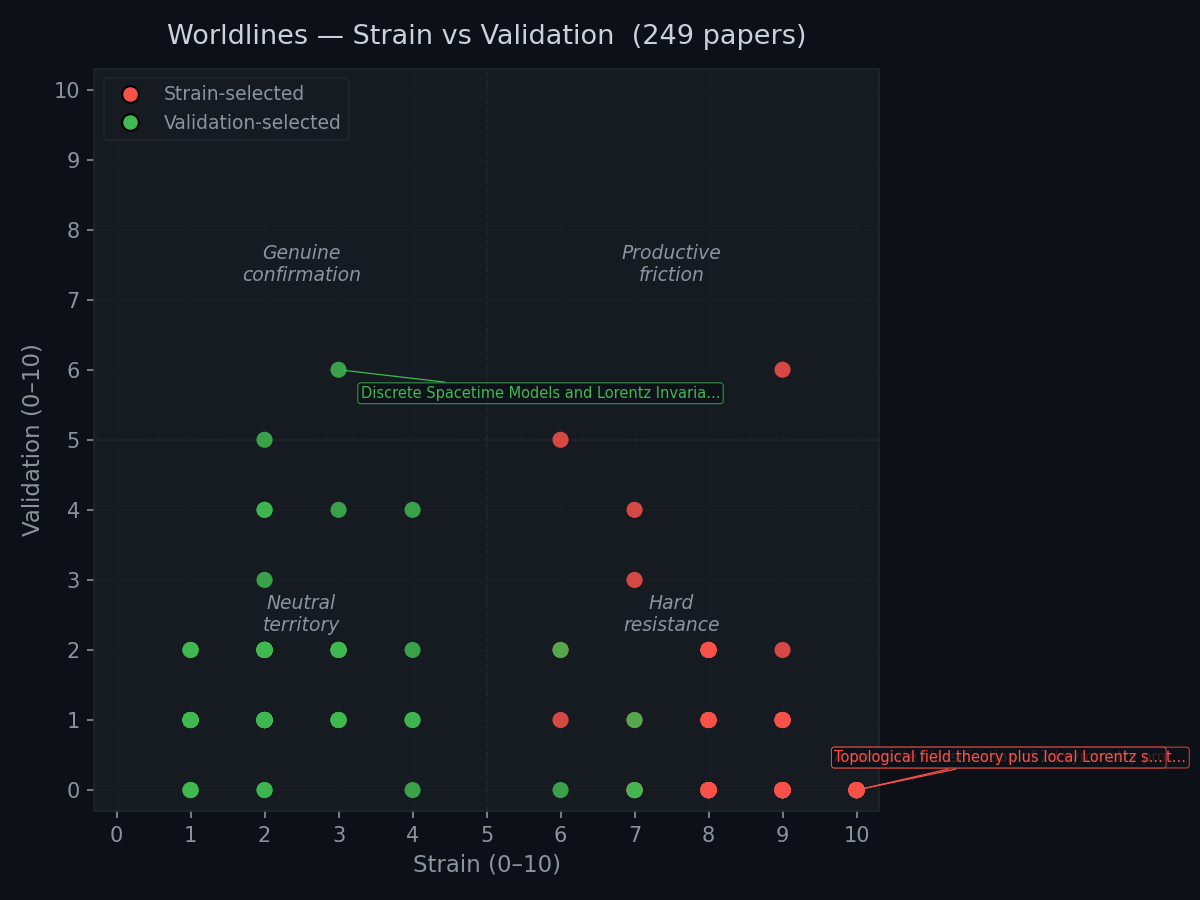
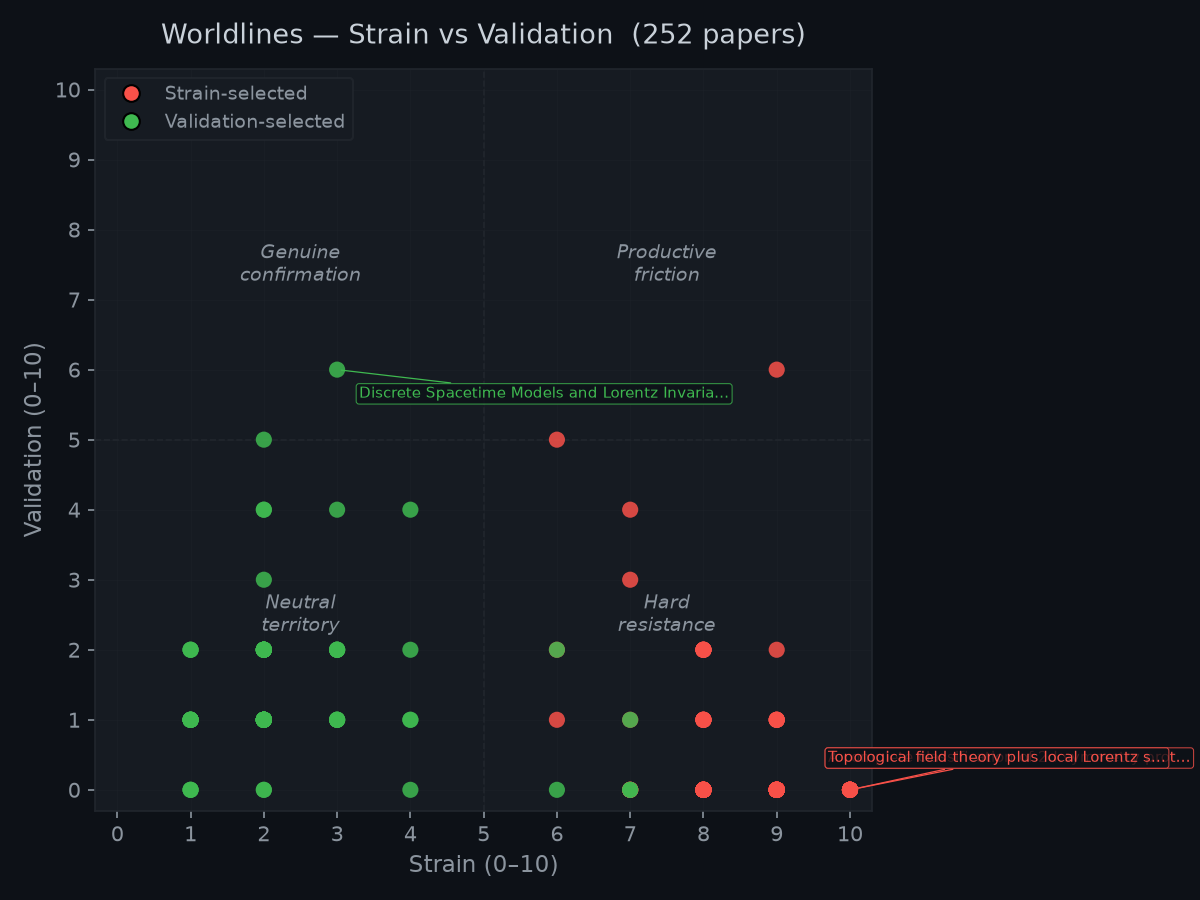
cycle: 2026-06-12T07:43:10Z

diff --git a/cycles/2026-06-12.md b/cycles/2026-06-12.md
@@ -1,0 +1,74 @@
+# Cycle: 2026-06-12
+
+**Papers fetched:** 17
+**Papers selected:** 3
+**Selected papers:**
+- [STRAIN] One-loop five-point gluing analytically (`2606.13665v1`)
+- [STRAIN] Semi-Device-Independent Certification for Nonlocality without Entanglement (`2606.13667v1`)
+- [VALIDATION] Cosmological Dynamics of the Thermal Scalar Near the Hagedorn Temperature (`2606.13611v1`)
+
+**Selection rationale:** Paper 1 (one-loop five-point gluing in N=4 SYM via integrability) is maximally resistant to Worldlines interpretation — it is a purely technical computation in perturbative QFT with no obvious connection to discrete ticks, gradients, or attractors, and would stress-test whether "conservation of computation" says anything meaningful about analytic S-matrix methods. Paper 9 (nonlocality without entanglement) strains the framework because it demonstrates nonlocal effects in separable states, challenging the framework's resolution primitive which ties definiteness to entanglement and collapse — NLWE suggests nonlocality can exist without the entanglement structures the framework relies on. Paper 3 (thermal scalar near Hagedorn temperature) validates the framework: the Hagedorn transition as an attractor-landscape restructuring (phase transition where winding modes become massless), the static configurations as attractor basins in the dilaton-thermal scalar field space, and the cosmological implications of computational substrate near a fundamental temperature limit all align naturally with the framework's primitives in ways that highlight dynamics other approaches treat as merely technical.
+
+
+**Scores:**
+
+| Paper | Strain | Validation | Selection |
+|-------|--------|------------|----------|
+| One-loop five-point gluing analytically | 9/10 | 0/10 | strain |
+| Semi-Device-Independent Certification for Nonlocal... | 9/10 | 0/10 | strain |
+| Cosmological Dynamics of the Thermal Scalar Near t... | 3/10 | 1/10 | validation |
+
+---
+
+### PAPERS PROCESSED
+
+**Paper 1: "One-loop five-point gluing analytically"**
+ArXiv ID: 2606.13665v1 | Selection type: Strain
+
+This paper presents the first complete analytic evaluation of the one-loop five-point function of stress tensor multiplets in $\mathcal{N}=4$ SYM, using integrability-based "gluing" methods. The finite-size corrections are computed by resumming series of residues into Euler integrals, which are then evaluated either directly or via intersection theory for generalized hypergeometric functions. Through the Worldlines lens, several strains emerge. First, the computation is a concrete instance of T055/T170: the physical observable (the five-point correlator) is generated by integrability machinery — the hexagonalization/gluing framework — where the conservation structure (infinite conserved charges of the integrable spin chain) is the computational engine, and the framework's Conservation primitive is the terminal output of this algebraic generation chain, not its source. Second, the use of intersection theory for generalized hypergeometric functions is a new mathematical tool that determines physical content: the intersection numbers of twisted cohomology classes on moduli spaces of punctured spheres are what select the correct analytic continuations and produce the final integrated expressions. This is a cohomological operation mediating between the algebraic (residue series) and analytic (integrated correlator) descriptions — a precise instance of T027 (cohomological mediation) applied to the evaluation of a specific observable. The framework has no primitive for intersection theory, twisted cohomology, or the moduli-space geometry that governs the integration. Third, the result confirms a previously known field-theory answer obtained by entirely different methods (Feynman diagram evaluation), meaning the same physical content is accessed through two categorically different computational architectures (integrability/gluing vs. perturbative Feynman diagrams) — a further instance of T010 (duality). The framework's "reality is literally computation" must choose which computation is "real," and the paper provides no basis for this choice since both produce the identical answer through different mathematical categories. Fourth, the $\mathcal{N}=4$ SYM setting means this observable lives in a theory whose conformal invariance is exact (T154), whose perturbative/non-perturbative structure is governed by modular invariance (T073), and whose organizational structure is algebraic (T059) — the framework's dynamical primitives contribute nothing to any of these features.
+
+**Paper 2: "Semi-Device-Independent Certification for Nonlocality without Entanglement"**
+ArXiv ID: 2606.13667v1 | Selection type: Strain
+
+This paper demonstrates that global quantum measurements on ensembles of *separable* (unentangled) states can outperform separable measurements in maximum-confidence discrimination, establishing "nonlocality without entanglement" (NLWE) at the level of confidence in detection events — a fine-grained figure of merit. The key finding is that quantum nonlocality is not exclusively a property of entangled states: it can arise from the *measurement* structure applied to separable states. Through the Worldlines lens, this strains the framework in a fundamental way. The framework's Resolution primitive describes "unresolved states becoming definite" and implicitly treats the quantum/classical distinction as residing in the *state* (superposition/entanglement = unresolved; definite outcome = resolved). Paper 2 demonstrates that the nonclassical advantage — the excess of global measurement over separable measurement — resides not in the state's entanglement but in the *joint structure of the measurement* (the global POVM vs. LOCC). The states are separable; the nonlocality is in the resolution process itself, not in the pre-resolution state. The framework has no account of measurement-structure-dependent nonlocality for separable states. The maximum-confidence framework — which conditions on detected outcomes and includes minimum-error and unambiguous discrimination as special cases — reveals a *spectrum* of resolution strategies with different operational meanings (confidence vs. success probability vs. unambiguous identification), and the separable/global gap can appear at the confidence level while being absent at the success-probability level or vice versa. The framework's binary Resolution primitive (unresolved → definite) cannot represent this spectrum of resolution strategies or the operational distinctions between them. Furthermore, the semi-device-independent certification protocol — which uses observed confidence values to certify that a global (non-separable) measurement was performed — treats the *type of measurement* as the quantity being certified, not the state. The framework has no primitive for certifying measurement type, and this paper shows it is physically meaningful and experimentally accessible. The connection to T119 (spurious correlations in resolution) is significant: Paper 2 demonstrates that even for *separable* states (which have no genuine quantum correlations in the state), the measurement structure alone can produce nonclassical advantages — meaning the nonclassicality is entirely in the resolution process, not in the pre-resolution topology (T012).
+
+**Paper 3: "Cosmological Dynamics of the Thermal Scalar Near the Hagedorn Temperature"**
+ArXiv ID: 2606.13611v1 | Selection type: Validation
+
+This paper studies the cosmological dynamics of the thermal scalar (a winding string mode becoming massless at the Hagedorn transition) coupled to gravi-dilaton effective action. The key findings include: static configurations below the Hagedorn temperature that are boundary states rather than attractors; winding mode backreaction that opposes and can reverse expansion; tachyonic behavior above the Hagedorn temperature generating negative effective energy density while preserving the null energy condition; and the breakdown of the quadratic effective theory at the Hagedorn temperature itself. Through the Worldlines lens, this paper provides post-hoc consistency with several framework claims at a qualitative level but zero differential predictive content. The framework's Attractor primitive correctly identifies that the static configurations are "boundary states rather than attractors" — they sit at saddle points in the phase-space landscape, consistent with the framework's description of saddle-point dynamics. The winding mode backreaction opposing expansion is narratable as a gradient force (Field primitive) in the effective potential, and the branch-change dynamics are consistent with the Attractor primitive's description of transitions between basins. The Hagedorn temperature itself, where the quadratic theory breaks down and "higher-order interactions become essential," is consistent with the framework's description of attractor landscape restructuring at phase transitions. However, the framework contributed no prediction of any of these features: not the saddle-point nature of the static solutions, not the branch-change mechanism, not the failure of graceful exit, and not the necessity of higher-order interactions. The Euclidean origin of the thermal scalar — explicitly flagged by the authors as requiring their Lorentzian treatment to be viewed as an "effective dynamical model" — connects to T053 (Euclidean nucleation) and reinforces that the framework's Tick primitive is undefined in the regime where the thermal scalar originates. The negative effective energy density with preserved null energy condition is a specific instance of anti-gradient dynamics (T061) that does not produce pathology. This is the weakest category of validation: framework vocabulary can be applied after the fact, but the framework's primitives could not have predicted, constrained, or distinguished any of these results from their non-occurrence.
+
+### FRAMEWORK STRAINS
+
+The most significant strain this cycle comes from Paper 2's demonstration of nonlocality without entanglement at the confidence level. The framework's implicit ontological architecture assigns nonclassicality to the *state* (superposition, entanglement = unresolved computation) and treats measurement/resolution as the process by which unresolved states become definite. Paper 2 inverts this: the states are classical (separable, no entanglement), and the nonclassicality resides entirely in the *measurement structure* — whether the resolution process uses a global POVM or is restricted to LOCC. The framework has no mechanism for locating nonclassicality in the resolution process itself rather than in the pre-resolution state. The Resolution primitive's architecture is: "unresolved state → resolution event → definite outcome." The nonclassical content is supposed to be in the first term (the unresolved state's superposition/entanglement). NLWE demonstrates that the nonclassical content can be entirely in the second term (the resolution event's global vs. local structure), with the first term being fully classical. This is not merely a gap (the framework is silent on something) but a structural misattribution: the framework's ontological architecture places the quantum advantage in the wrong location. The framework would need to either acknowledge that the Resolution primitive itself has internal structure (global vs. local, with different operational capabilities) that is a source of nonclassicality independent of the state, or accept that its state-centric ontology of nonclassicality is incomplete. This is compounded by the maximum-confidence framework's revelation that "resolution" is not a single operation but a family of strategies (minimum-error, unambiguous, maximum-confidence) with different operational meanings, and the quantum advantage can appear at one level and not another. The framework's binary Resolution primitive collapses all of this into a single concept.
+
+Paper 1's strain is more of the familiar T026/T059 variety but adds a new specific instance: intersection theory for twisted cohomology on moduli spaces as the mathematical tool that completes the physical computation. The framework's vocabulary is idle throughout the entire calculation — no tick, no gradient, no attractor, no resolution, no conservation participates in the evaluation of the Euler integrals via intersection numbers. The physical content is produced by cohomological machinery operating on a moduli space, reinforcing the pattern that the framework's dynamical primitives describe downstream consequences while the upstream generative mathematics is structural/algebraic/cohomological.
+
+### STATE UPDATES
+
+1. **Resolution primitive — add measurement-structure nonclassicality gap.** The Resolution description should be updated to note: nonclassical advantages in state discrimination can arise from the *measurement structure* (global vs. separable POVM) applied to fully separable (unentangled) states, meaning nonclassicality is not exclusively a property of the pre-resolution state but can reside in the resolution process itself. The framework's implicit assignment of all quantum advantage to the pre-resolution state (superposition, entanglement) is falsified by NLWE at the confidence level. The Resolution primitive should distinguish between state-sourced nonclassicality (entanglement, superposition — the framework's existing account) and measurement-sourced nonclassicality (global POVM structure — demonstrated by Paper 2, not expressible in the framework). Additionally, the Resolution primitive should note that "resolution" admits a spectrum of operational strategies (minimum-error, unambiguous, maximum-confidence) with different figures of merit, and the quantum/classical gap can appear at one level while being absent at another.
+
+2. **T026 (structural content gap) — add intersection theory / twisted cohomology on moduli spaces as a new evidence type.** The model should record that Paper 1 demonstrates the complete analytic evaluation of a fundamental physical observable (five-point stress tensor correlator in $\mathcal{N}=4$ SYM) requires intersection theory for generalized hypergeometric functions — a cohomological operation on moduli spaces of punctured spheres. This adds "intersection theory on moduli spaces" to the catalogue of structural categories the framework cannot express, and is notable because the intersection numbers are what select the correct analytic continuations and produce the final integrated expressions — they are not auxiliary mathematical devices but the computational engine producing the physical answer.
+
+3. **T059 (ontological inversion) — strengthen with five-point gluing evidence.** The model should record that Paper 1 provides a clean demonstration of the ontological inversion in the integrability setting: the physical observable is generated by the integrability/hexagonalization framework (algebraic structure) and confirmed by Feynman diagram evaluation (dynamical computation), with the algebraic route producing the analytic result that the dynamical route merely matches. The algebraic derivation chain (integrable spin chain → gluing/hexagonalization → residue series → Euler integral resummation → intersection theory evaluation → physical correlator) is entirely structural, with the framework's dynamical primitives appearing nowhere.
+
+4. **Attractor primitive — record Hagedorn boundary states as post-hoc consistent instance with zero differential predictive content.** Paper 3's identification of static thermal scalar configurations as boundary states (saddle points) rather than attractors, the branch-change dynamics, and the necessity of higher-order interactions at the Hagedorn temperature are all consistent with the Attractor primitive's qualitative vocabulary but the framework contributed no prediction of any specific feature. Record as the weakest validation category.
+
+### NEW TENSIONS
+
+**T174 — Measurement-sourced nonclassicality: the Resolution primitive mislocates the quantum advantage**
+
+Opened: this cycle
+
+Description: Lee & Bae (2606.13667) demonstrate that global quantum measurements on ensembles of *separable* (unentangled) states outperform separable measurements in maximum-confidence discrimination, establishing nonlocality without entanglement (NLWE) at the confidence level. The framework's Resolution primitive and its supporting ontological architecture assign nonclassicality to the pre-resolution state: superposition and entanglement are properties of the "unresolved computation," and resolution is the process by which this unresolved state becomes definite. NLWE at the confidence level demonstrates that the quantum advantage can reside entirely in the measurement structure (global vs. LOCC), with the state being fully classical (separable, zero entanglement). The framework mislocates the source of nonclassicality.
+
+This is distinct from T012 (pre-resolution topology, which concerns the topology of path-indistinguishability in superposed states) because the states here have no superposition or path-indistinguishability — they are separable product states, and the nonclassicality is in the joint measurement, not in any interference structure. It is distinct from T119 (spurious correlations from Simpson's paradox, which concerns correlations that are artifacts of ensemble averaging) because NLWE correlations are *genuine* advantages of global measurements, not statistical artifacts — they reflect the irreducible non-separability of the optimal POVM, not confounding. It is distinct from T132 (witness category gap, which concerns the type of evidence certifying resolution) because T174 concerns the *operational advantage* of global resolution over local resolution for fully classical states, not the certification of outcomes. It is distinct from T009 (resolution cost structure, which concerns computational cost) because T174 concerns a *qualitative* advantage (confidence gap) of one measurement type over another, not a resource cost.
+
+The framework faces: (a) its state-centric ontology of nonclassicality is wrong for NLWE — the nonclassical resource is in the measurement, not the state; (b) the maximum-confidence framework reveals that "resolution" is a family of strategies with distinct operational meanings, and the quantum/classical gap is strategy-dependent — visible at the confidence level but potentially invisible at the success-probability level — meaning the framework's undifferentiated Resolution primitive collapses physically distinct resolution modes; (c) the semi-device-independent certification protocol treats the measurement *type* (global vs. separable) as the quantity to be certified from observed outcomes, meaning the resolution process's own structure is experimentally accessible and physically meaningful — the framework has no mechanism for this; (d) the connection to non-unit detection efficiency (the protocol works with realistic detectors) means this is experimentally accessible, not merely theoretical.
+
+Why unresolved: The framework would need to either (a) extend the Resolution primitive to include the measurement structure (global vs. LOCC) as a physical parameter that independently contributes nonclassical advantages, fundamentally changing the primitive from "states become definite" to "states become definite via measurement structures with their own nonclassical content" — but this would require a theory of which measurement structures are available and what determines them, connecting to T026 (structural content gap) and T132 (witness category gap); (b) relocate nonclassicality from the state to the state-measurement pair, requiring a joint primitive that describes the pre-resolution state *and* the resolution structure together — but the framework's architecture separates these into different primitives (the state is described by Tick/Field/Attractor; the resolution is described by Resolution); (c) argue that NLWE is a special case that does not challenge the general framework — but the paper demonstrates it for *arbitrary* ensembles of separable states with the right structure, meaning it is a generic feature of quantum measurement theory, not a corner case; or (d) accept that the framework's Resolution primitive is descriptively incomplete for the full structure of quantum measurement, adding measurement-sourced nonclassicality to the growing list of physical phenomena the framework cannot account for. The experimental feasibility (present-day quantum measurement devices with non-unit efficiencies) makes this tension empirically grounded rather than merely theoretical.
+
+**T175 — Intersection-theoretic computation: physical observables are evaluated by cohomological operations on moduli spaces, a mathematical category with zero contact with any primitive**
+
+Opened: this cycle
+
+Description: Eden & Gottwald (2606.13665) demonstrate that the complete analytic evaluation of the one-loop five-point correlator in $\mathcal{N}=4$ SYM requires intersection theory for generalized hypergeometric functions on moduli spaces of punctured spheres. The Euler integrals arising from the resummation of residue series are evaluated using intersection numbers of twisted cohomology classes — mathematical objects from algebraic geometry that select the correct analytic continuations and produce the final integrated expressions. The framework claims "reality is literally computation" and describes physical content through five dynamical primitives. The computation of this physical observable proceeds entirely through structural/cohomological mathematics: integrability → hexagonalization/gluing → residue resummation → Euler integral representation → intersection theory evaluation. No tick, no gradient, no

diff --git a/tensions/open.md b/tensions/open.md
@@ -1450,3 +1450,23 @@ Why unresolved: The framework would need to either (a) incorporate particle stat
 Opened: this cycle
 
 Description: Santoni & Scardino (2606.12367) demonstrate that the replica energy $\mathcal{E}$ — measuring the failure of the partition function to scale extensively — provides a unified framework for extracting central charges, anomaly coefficients, sphere free energies (F-theorem), the a-theorem coefficient, and defect free energies. The differential operator $(1 - \frac{1}{d}L\partial_L)$ isolates the nonadditive part of $W = \log Z$, and higher-order versions remove successive layers of local counterterms to reach universal fixed-point data. The direction of RG flow is defined by the monotonic decrease of specific nonadditivity measures ($c$ in 2D, $F$ in 3D, $a$ in 4D), meaning the most fundamental organizational arrow in QFT — UV
+
+---
+
+**T174 — Measurement-sourced nonclassicality: the Resolution primitive mislocates the quantum advantage**
+
+Opened: this cycle
+
+Description: Lee & Bae (2606.13667) demonstrate that global quantum measurements on ensembles of *separable* (unentangled) states outperform separable measurements in maximum-confidence discrimination, establishing nonlocality without entanglement (NLWE) at the confidence level. The framework's Resolution primitive and its supporting ontological architecture assign nonclassicality to the pre-resolution state: superposition and entanglement are properties of the "unresolved computation," and resolution is the process by which this unresolved state becomes definite. NLWE at the confidence level demonstrates that the quantum advantage can reside entirely in the measurement structure (global vs. LOCC), with the state being fully classical (separable, zero entanglement). The framework mislocates the source of nonclassicality.
+
+This is distinct from T012 (pre-resolution topology, which concerns the topology of path-indistinguishability in superposed states) because the states here have no superposition or path-indistinguishability — they are separable product states, and the nonclassicality is in the joint measurement, not in any interference structure. It is distinct from T119 (spurious correlations from Simpson's paradox, which concerns correlations that are artifacts of ensemble averaging) because NLWE correlations are *genuine* advantages of global measurements, not statistical artifacts — they reflect the irreducible non-separability of the optimal POVM, not confounding. It is distinct from T132 (witness category gap, which concerns the type of evidence certifying resolution) because T174 concerns the *operational advantage* of global resolution over local resolution for fully classical states, not the certification of outcomes. It is distinct from T009 (resolution cost structure, which concerns computational cost) because T174 concerns a *qualitative* advantage (confidence gap) of one measurement type over another, not a resource cost.
+
+The framework faces: (a) its state-centric ontology of nonclassicality is wrong for NLWE — the nonclassical resource is in the measurement, not the state; (b) the maximum-confidence framework reveals that "resolution" is a family of strategies with distinct operational meanings, and the quantum/classical gap is strategy-dependent — visible at the confidence level but potentially invisible at the success-probability level — meaning the framework's undifferentiated Resolution primitive collapses physically distinct resolution modes; (c) the semi-device-independent certification protocol treats the measurement *type* (global vs. separable) as the quantity to be certified from observed outcomes, meaning the resolution process's own structure is experimentally accessible and physically meaningful — the framework has no mechanism for this; (d) the connection to non-unit detection efficiency (the protocol works with realistic detectors) means this is experimentally accessible, not merely theoretical.
+
+Why unresolved: The framework would need to either (a) extend the Resolution primitive to include the measurement structure (global vs. LOCC) as a physical parameter that independently contributes nonclassical advantages, fundamentally changing the primitive from "states become definite" to "states become definite via measurement structures with their own nonclassical content" — but this would require a theory of which measurement structures are available and what determines them, connecting to T026 (structural content gap) and T132 (witness category gap); (b) relocate nonclassicality from the state to the state-measurement pair, requiring a joint primitive that describes the pre-resolution state *and* the resolution structure together — but the framework's architecture separates these into different primitives (the state is described by Tick/Field/Attractor; the resolution is described by Resolution); (c) argue that NLWE is a special case that does not challenge the general framework — but the paper demonstrates it for *arbitrary* ensembles of separable states with the right structure, meaning it is a generic feature of quantum measurement theory, not a corner case; or (d) accept that the framework's Resolution primitive is descriptively incomplete for the full structure of quantum measurement, adding measurement-sourced nonclassicality to the growing list of physical phenomena the framework cannot account for. The experimental feasibility (present-day quantum measurement devices with non-unit efficiencies) makes this tension empirically grounded rather than merely theoretical.
+
+**T175 — Intersection-theoretic computation: physical observables are evaluated by cohomological operations on moduli spaces, a mathematical category with zero contact with any primitive**
+
+Opened: this cycle
+
+Description: Eden & Gottwald (2606.13665) demonstrate that the complete analytic evaluation of the one-loop five-point correlator in $\mathcal{N}=4$ SYM requires intersection theory for generalized hypergeometric functions on moduli spaces of punctured spheres. The Euler integrals arising from the resummation of residue series are evaluated using intersection numbers of twisted cohomology classes — mathematical objects from algebraic geometry that select the correct analytic continuations and produce the final integrated expressions. The framework claims "reality is literally computation" and describes physical content through five dynamical primitives. The computation of this physical observable proceeds entirely through structural/cohomological mathematics: integrability → hexagonalization/gluing → residue resummation → Euler integral representation → intersection theory evaluation. No tick, no gradient, no

diff --git a/state/model.md b/state/model.md
@@ -1085,3 +1085,15 @@ This principle explains why the universe persists. It does not explain why it st
 3. **Dark energy claim — record further weakening (seventh alternative mechanism).** Post-selected quantum cosmology (Lionas, Anastopoulos & Gourgouliatos 2606.12297) demonstrates accelerating expansion from quantum post-selection with Λ = 0, adding "teleological quantum boundary-condition effect" to the list. This is now the seventh distinct mechanism producing cosmic acceleration without the framework's "computational cost of new substrate": ensemble averaging, unimodular gravity, dark matter particle creation, baby universe absorption, unified scalar field, post-selection (already noted 2026-06-02), and now this more developed model with statistical fits competitive with ΛCDM. The framework's dark energy claim is the most repeatedly and diversely weakened specific claim in the model's history.
 
 4. **Model — note fermion/boson computational asymmetry as a new axis of structural content the framework cannot express.** The model should record that particle statistics type (fermion vs. boson) is not merely a classification label but an *operational resource* determining the achievable nonlocal correlations and distributed computational capacity of quantum networks. The framework has no primitive for particle statistics, no parameter distinguishing fermions from bosons, and no mechanism for the anticommutation relations that generate the fermionic computational advantage. This extends the existing fermion/boson asymmetry note (T040/T044 — field-specific singularity resilience) from passive structural difference to active computational superiority.
+
+---
+
+## Update: 2026-06-12
+
+1. **Resolution primitive — add measurement-structure nonclassicality gap.** The Resolution description should be updated to note: nonclassical advantages in state discrimination can arise from the *measurement structure* (global vs. separable POVM) applied to fully separable (unentangled) states, meaning nonclassicality is not exclusively a property of the pre-resolution state but can reside in the resolution process itself. The framework's implicit assignment of all quantum advantage to the pre-resolution state (superposition, entanglement) is falsified by NLWE at the confidence level. The Resolution primitive should distinguish between state-sourced nonclassicality (entanglement, superposition — the framework's existing account) and measurement-sourced nonclassicality (global POVM structure — demonstrated by Paper 2, not expressible in the framework). Additionally, the Resolution primitive should note that "resolution" admits a spectrum of operational strategies (minimum-error, unambiguous, maximum-confidence) with different figures of merit, and the quantum/classical gap can appear at one level while being absent at another.
+
+2. **T026 (structural content gap) — add intersection theory / twisted cohomology on moduli spaces as a new evidence type.** The model should record that Paper 1 demonstrates the complete analytic evaluation of a fundamental physical observable (five-point stress tensor correlator in $\mathcal{N}=4$ SYM) requires intersection theory for generalized hypergeometric functions — a cohomological operation on moduli spaces of punctured spheres. This adds "intersection theory on moduli spaces" to the catalogue of structural categories the framework cannot express, and is notable because the intersection numbers are what select the correct analytic continuations and produce the final integrated expressions — they are not auxiliary mathematical devices but the computational engine producing the physical answer.
+
+3. **T059 (ontological inversion) — strengthen with five-point gluing evidence.** The model should record that Paper 1 provides a clean demonstration of the ontological inversion in the integrability setting: the physical observable is generated by the integrability/hexagonalization framework (algebraic structure) and confirmed by Feynman diagram evaluation (dynamical computation), with the algebraic route producing the analytic result that the dynamical route merely matches. The algebraic derivation chain (integrable spin chain → gluing/hexagonalization → residue series → Euler integral resummation → intersection theory evaluation → physical correlator) is entirely structural, with the framework's dynamical primitives appearing nowhere.
+
+4. **Attractor primitive — record Hagedorn boundary states as post-hoc consistent instance with zero differential predictive content.** Paper 3's identification of static thermal scalar configurations as boundary states (saddle points) rather than attractors, the branch-change dynamics, and the necessity of higher-order interactions at the Hagedorn temperature are all consistent with the Attractor primitive's qualitative vocabulary but the framework contributed no prediction of any specific feature. Record as the weakest validation category.
